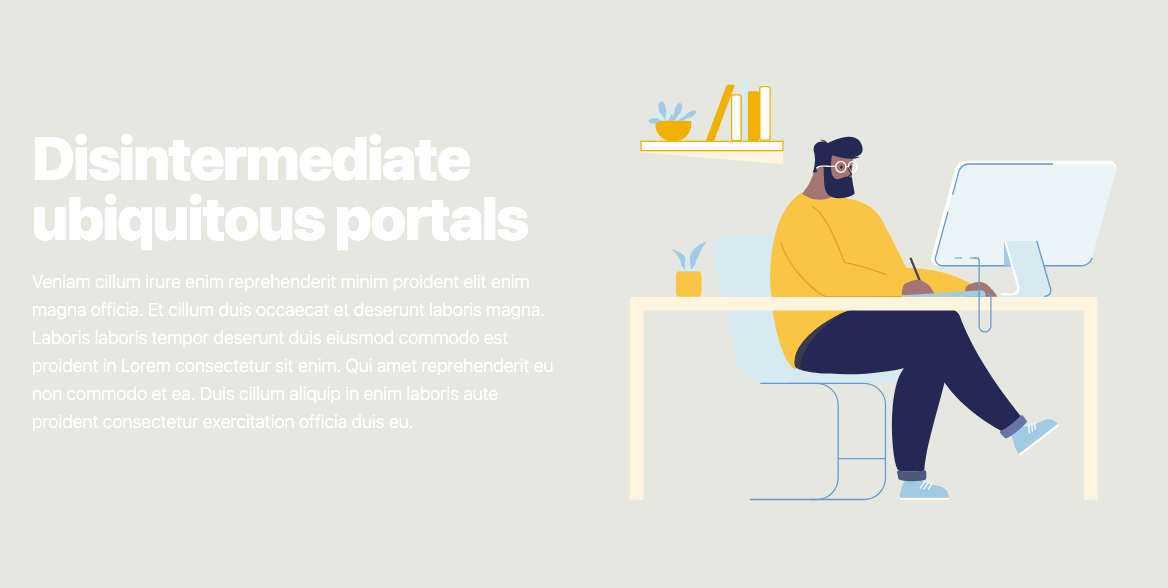
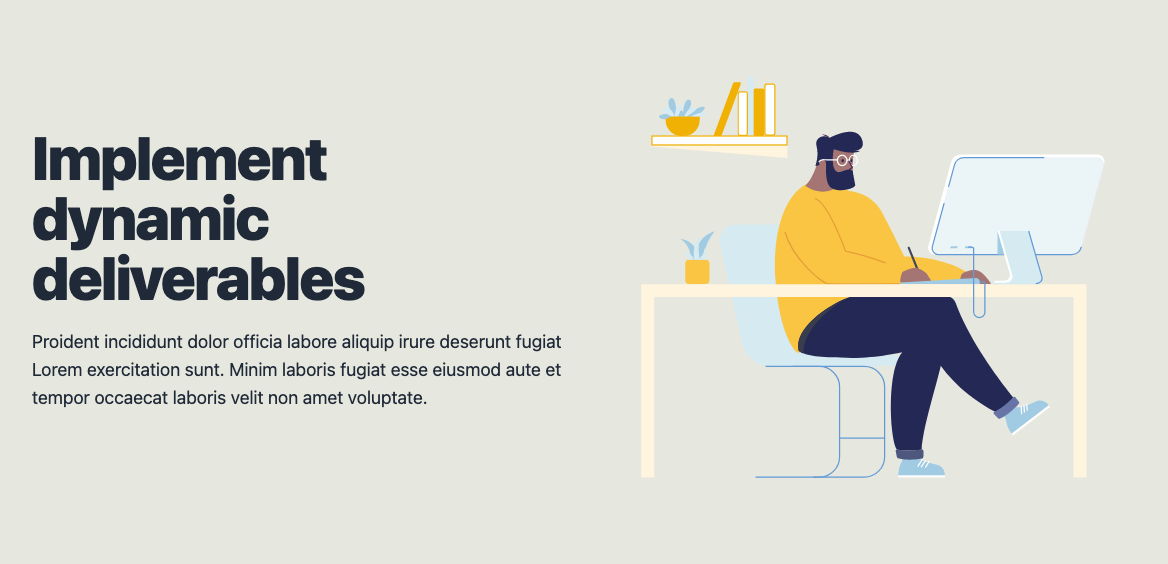
Add font shade

diff --git a/.slicemachine/assets/slices/WideImageOverlay/index.stories.js b/.slicemachine/assets/slices/WideImageOverlay/index.stories.js
@@ -5,5 +5,5 @@ export default {
 }
 
 
-export const _DefaultSlice = () => <MyComponent slice={{"variation":"default-slice","name":"Default slice","slice_type":"wide_image_overlay","items":[],"primary":{"title":[{"type":"heading1","text":"Disintermediate ubiquitous portals","spans":[]}],"description":[{"type":"paragraph","text":"Veniam cillum irure enim reprehenderit minim proident elit enim magna officia. Et cillum duis occaecat et deserunt laboris magna.","spans":[]},{"type":"paragraph","text":"Laboris laboris tempor deserunt duis eiusmod commodo est proident in Lorem consectetur sit enim. Qui amet reprehenderit eu non commodo et ea. Duis cillum aliquip in enim laboris aute proident consectetur exercitation officia duis eu.","spans":[]}],"image":{"dimensions":{"width":900,"height":500},"alt":"Placeholder image","copyright":null,"url":"https://jameshome.cdn.prismic.io/jameshome/71b19ee2-626b-41a3-992b-93b3a5e0f745_drawkit-daily-life-vector-illustration-02.svg?w=900&h=500&fit=crop"},"backgroundcolor":"#e6e8df","shade":"dark"},"id":"_DefaultSlice"}} />
+export const _DefaultSlice = () => <MyComponent slice={{"variation":"default-slice","name":"Default slice","slice_type":"wide_image_overlay","items":[],"primary":{"title":[{"type":"heading1","text":"Implement dynamic deliverables","spans":[]}],"description":[{"type":"paragraph","text":"Proident incididunt dolor officia labore aliquip irure deserunt fugiat Lorem exercitation sunt. Minim laboris fugiat esse eiusmod aute et tempor occaecat laboris velit non amet voluptate.","spans":[]}],"image":{"dimensions":{"width":900,"height":500},"alt":"Placeholder image","copyright":null,"url":"https://jameshome.cdn.prismic.io/jameshome/71b19ee2-626b-41a3-992b-93b3a5e0f745_drawkit-daily-life-vector-illustration-02.svg?w=900&h=500&fit=crop"},"backgroundcolor":"#e6e8df","shade":"dark"},"id":"_DefaultSlice"}} />
 _DefaultSlice.storyName = 'Default slice'

diff --git a/slices/WideImageOverlay/index.js b/slices/WideImageOverlay/index.js
@@ -7,7 +7,7 @@ const MySlice = ({ slice }) => (
       <div className="lg:grid lg:grid-cols-2 lg:gap-8">
         <div className="mx-auto max-w-md px-4 sm:max-w-2xl sm:px-6 sm:text-center lg:px-0 lg:text-left lg:flex lg:items-center">
           <div className="lg:py-24">
-            <Heading shade="dark">
+            <Heading shade={slice.primary.fontshade}>
             {slice.primary.title ? (
                 <RichText render={slice.primary.title} />
               ) : (
